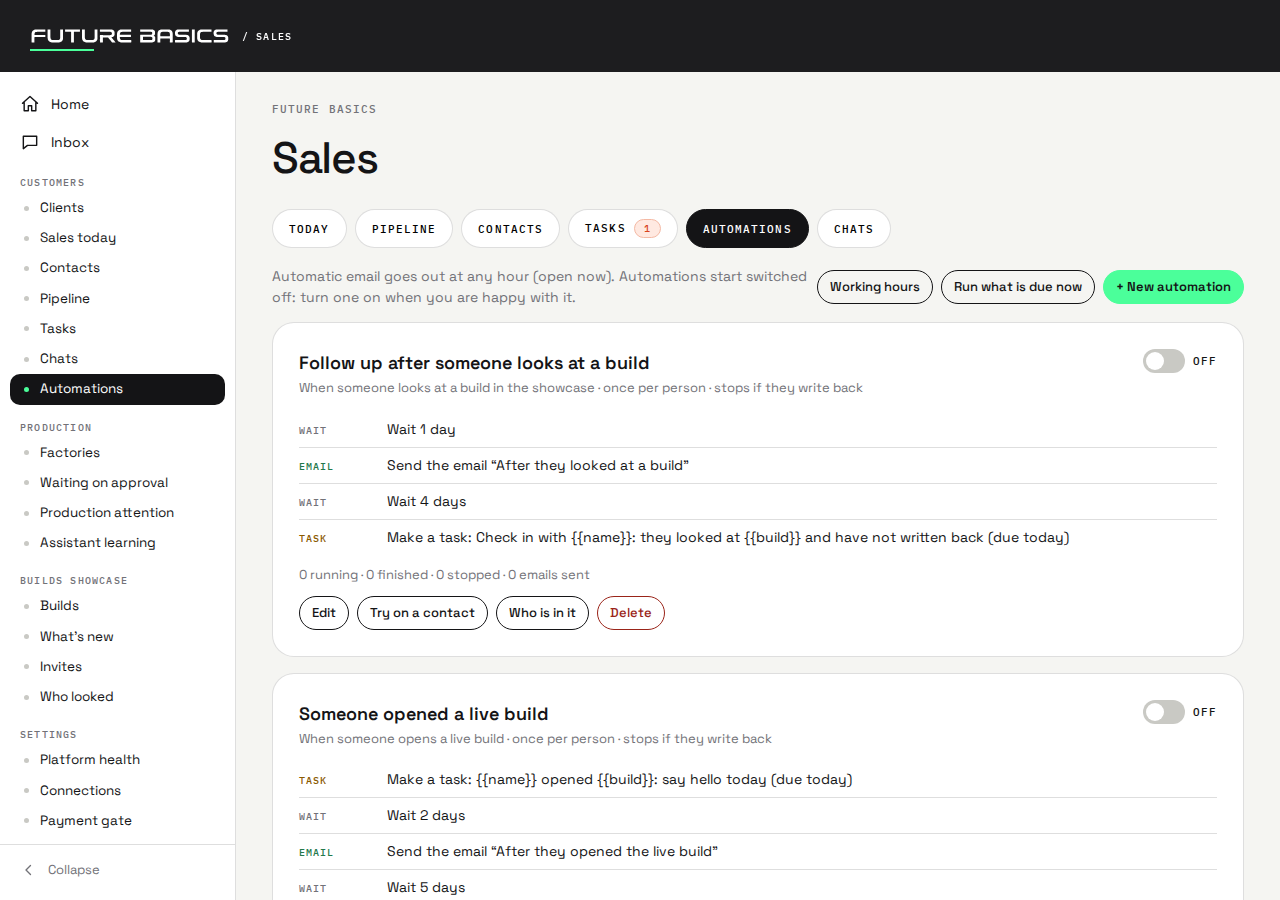
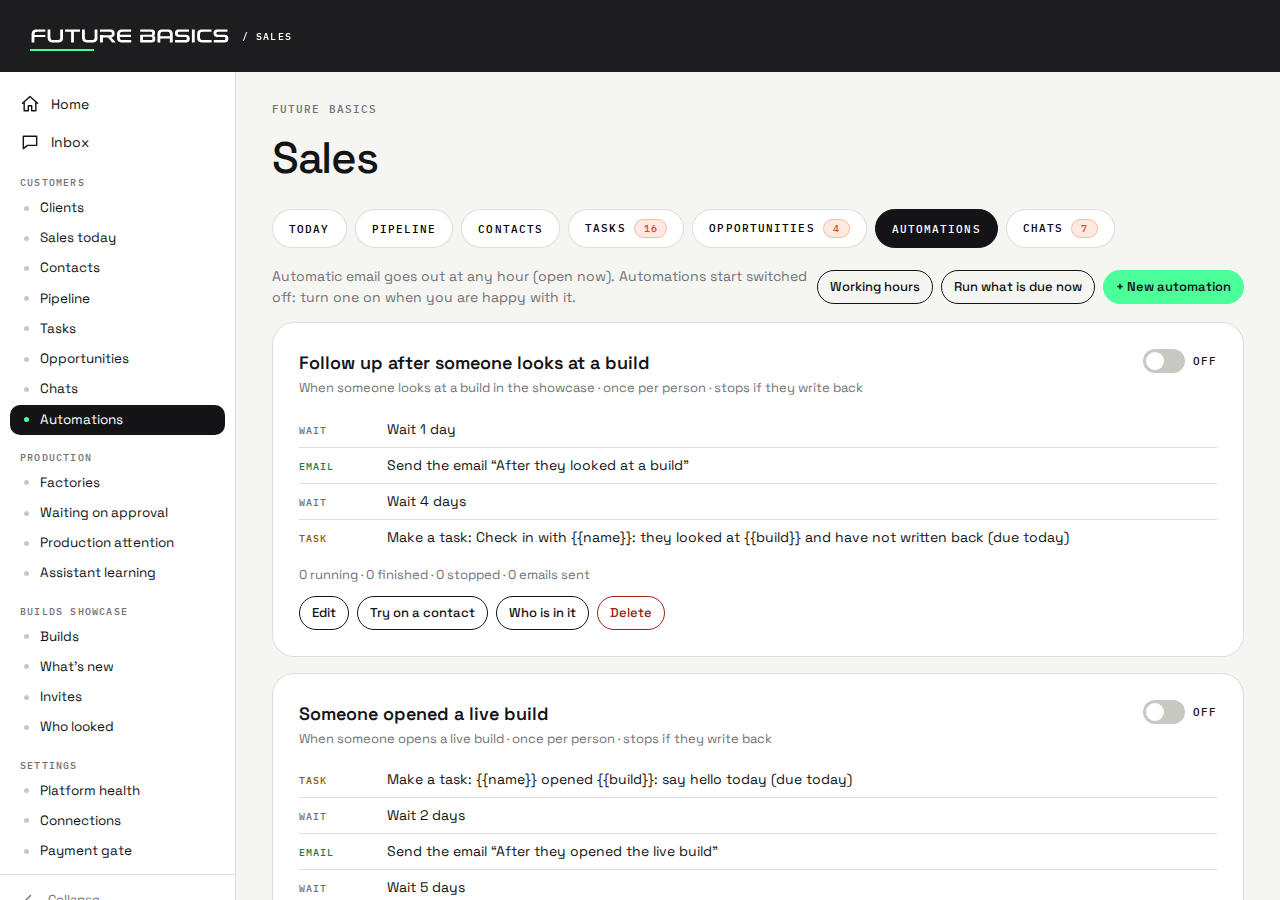
Opportunity finder: who to talk to next, and why
A ranked list from what the CRM already knows (chats waiting, unanswered mail, live builds opened, quiet deals, warm people with no deal, customers who could use more, new untouched contacts, people who went quiet), one line per person under their strongest reason, with make-a-task / snooze / not-now. Today shows the top three; the menu and tab count what is due now. Reads the CRM only; sends nothing.

Claude-Session: https://claude.ai/code/session_017HhaG43tFnDLXHBBMSMfQq

Changed region(s): [[0.0, 0.3733, 0.1875, 1.0], [0.5, 0.2178, 0.7812, 0.28], [0.8125, 0.2489, 0.8438, 0.28]]

diff --git a/src/sales.html b/src/sales.html
@@ -81,7 +81,11 @@ td.pick,th.pick{width:28px;padding-right:0}td.pick input{width:17px;height:17px}
 .cpane .head{display:flex;justify-content:space-between;gap:10px;flex-wrap:wrap;align-items:flex-start;margin-bottom:10px}.cpane .head h2{margin:0}
 .cpane .fbchat-panel{height:min(62vh,560px);border-radius:18px}
 .cback{display:none}
-@media(max-width:860px){.chats{grid-template-columns:minmax(0,1fr)}.chats.open .clistbox{display:none}.chats:not(.open) .cpane{display:none}.cback{display:inline-flex}.fields,.cols2{grid-template-columns:minmax(0,1fr)}.tiles{grid-template-columns:repeat(2,minmax(0,1fr))}.board{grid-auto-columns:82%}.ev{grid-template-columns:1fr;gap:2px}}
+/* opportunities */
+.opp{display:grid;grid-template-columns:minmax(0,1fr) auto;gap:10px 16px;align-items:start}.opp h2{margin:0 0 2px;font-size:17px}.opp .why{margin:4px 0 0}.opp .arow{margin-top:10px}
+.pri{display:inline-block;border-radius:999px;padding:2px 9px;font:500 10px 'IBM Plex Mono',monospace;letter-spacing:.08em;text-transform:uppercase;border:1px solid var(--line);white-space:nowrap}.pri.now{background:#ffe9e1;border-color:#f4b9a4;color:var(--hot)}.pri.week{background:#fff7d6;border-color:#e6d27a}.pri.later{background:#f0f0ee;color:var(--dim)}
+.opp .also{color:var(--dim);font-size:12.5px;margin-top:6px}
+@media(max-width:860px){.opp{grid-template-columns:minmax(0,1fr)}.chats{grid-template-columns:minmax(0,1fr)}.chats.open .clistbox{display:none}.chats:not(.open) .cpane{display:none}.cback{display:inline-flex}.fields,.cols2{grid-template-columns:minmax(0,1fr)}.tiles{grid-template-columns:repeat(2,minmax(0,1fr))}.board{grid-auto-columns:82%}.ev{grid-template-columns:1fr;gap:2px}}
 @media(prefers-reduced-motion:reduce){*{transition:none!important}}
 </style>
 </head>
@@ -93,7 +97,7 @@ td.pick,th.pick{width:28px;padding-right:0}td.pick input{width:17px;height:17px}
   <div id="needSignin" class="panel hidden"><h1>Sign in to the work console first</h1><p class="note">This page uses your work console sign-in. Open the console, sign in, then come back here.</p><a class="btn go" href="/">Open the work console</a></div>
   <div id="app" class="hidden">
     <span class="mono" style="color:var(--dim)">Future Basics</span><h1>Sales</h1>
-    <div class="tabs" role="tablist"><button class="tab on" data-t="today">Today</button><button class="tab" data-t="pipeline">Pipeline</button><button class="tab" data-t="contacts">Contacts</button><button class="tab" data-t="tasks">Tasks <span id="taskCount"></span></button><button class="tab" data-t="automations">Automations</button><button class="tab" data-t="chats">Chats <span id="chatCount"></span></button></div>
+    <div class="tabs" role="tablist"><button class="tab on" data-t="today">Today</button><button class="tab" data-t="pipeline">Pipeline</button><button class="tab" data-t="contacts">Contacts</button><button class="tab" data-t="tasks">Tasks <span id="taskCount"></span></button><button class="tab" data-t="opportunities">Opportunities <span id="oppCount"></span></button><button class="tab" data-t="automations">Automations</button><button class="tab" data-t="chats">Chats <span id="chatCount"></span></button></div>
 
     <section id="t-today"></section>
 
@@ -119,6 +123,11 @@ td.pick,th.pick{width:28px;padding-right:0}td.pick input{width:17px;height:17px}
       </div>
     </section>
 
+    <section id="t-opportunities" class="hidden">
+      <div class="abar"><p class="note grow" id="oppNote" style="margin:0">Who to talk to next, and why. Each person appears once, under their strongest reason.</p></div>
+      <div class="views" id="oppTypes" aria-label="Kinds of opportunity"></div>
+      <div id="oppList"></div>
+    </section>
     <section id="t-automations" class="hidden">
       <div class="abar"><p class="note grow" id="autoNote" style="margin:0"></p><div class="arow" style="margin:0"><button class="btn sm" id="autoHours">Working hours</button><button class="btn sm" id="autoNow">Run what is due now</button><button class="btn go sm" id="autoNew">+ New automation</button></div></div>
       <div id="autoList"></div>
@@ -256,8 +265,9 @@ let TAB='today',OPEN_CONTACT=null,DEALS=[],CONTACT_OPTS=[];
 
 // ---------- today ----------
 async function loadToday(){
-  const [o,sv]=await Promise.all([api('/v1/sales/overview'),api('/v1/sales/segments').catch(()=>({segments:[]}))]),p=o.pipeline;
+  const [o,sv,op]=await Promise.all([api('/v1/sales/overview'),api('/v1/sales/segments').catch(()=>({segments:[]})),api('/v1/sales/opportunities').catch(()=>({opportunities:[],priorities:{now:0}}))]),p=o.pipeline;
   $('#t-today').innerHTML=`<div class="tiles"><div class="tile"><span>Open pipeline</span><b>${money(p.openValueCents)}</b><span>${p.openCount} deal${p.openCount===1?'':'s'}</span></div><div class="tile"><span>Forecast (by odds)</span><b>${money(p.forecastCents)}</b></div><div class="tile"><span>Won</span><b>${money(p.wonCents)}</b></div><div class="tile"><span>New contacts this week</span><b>${o.newLeads}</b><span>${o.totalContacts} in all</span></div></div>
+  ${op.opportunities.length?`<div class="panel"><div class="ahead"><h2>Worth your time today</h2><button class="btn sm" data-opentab="opportunities">See all ${op.total}</button></div>${op.opportunities.slice(0,3).map(x=>`<div class="item click" ${x.contactId?`data-contact="${esc(x.contactId)}"`:''}><span class="main"><b>${esc(x.name||'Someone')}${x.company?' · '+esc(x.company):''}</b><span class="sub">${esc(x.reason)}</span></span><span class="pri ${x.priority}">${esc({now:'Now',week:'This week',later:'Later'}[x.priority])}</span></div>`).join('')}</div>`:''}
   ${sv.segments.length?`<div class="panel"><h2>Your customers</h2><div class="views" style="margin:0">${sv.segments.map(g=>`<button type="button" class="fchip" data-openseg="${esc(g.id)}">${esc(g.name)}<small>${g.count}</small></button>`).join('')}</div></div>`:''}
   <div class="cols2"><div class="panel"><h2>Do these</h2>${o.tasks.length?o.tasks.map(t=>`<div class="item"><label class="check"><input type="checkbox" data-done="${esc(t.id)}" aria-label="Done"><span class="main"><b>${esc(t.title)}</b><span class="sub">${t.contact_id?`<a href="#" data-contact="${esc(t.contact_id)}">${who(t)}</a> · `:''}${new Date(t.due_at)<new Date(new Date().toDateString())?'<span class="chip late">overdue</span> ':''}${dayOf(t.due_at)}</span></span></label></div>`).join(''):'<p class="note">Nothing due. Add a task from a contact.</p>'}</div>
   <div class="panel"><h2>Warm right now</h2>${o.hot.length?o.hot.map(c=>`<div class="item click" data-contact="${esc(c.id)}"><span class="main"><b>${esc(c.name||c.email)}</b><span class="sub">${esc(c.company||c.email||'')} · last ${ago(c.heat.lastAt)}</span></span>${heatChip(c.heat)}</div>`).join(''):'<p class="note">Nobody has looked at anything lately. When someone you invited opens a build, they show up here.</p>'}</div>
@@ -437,6 +447,7 @@ $('#sTest').onclick=async()=>{const m=$('#sMsg');m.className='msg';m.textContent
 
 // ---------- shared behaviour ----------
 document.addEventListener('click',async e=>{
+  const ot=e.target.closest('[data-opentab]');if(ot){$$('.tab').find(t=>t.dataset.t===ot.dataset.opentab).click();return}
   const os=e.target.closest('[data-openseg]');if(os){ACTIVE_SEG=os.dataset.openseg;PICK.clear();$$('.tab').find(t=>t.dataset.t==='contacts').click();return}
   const done=e.target.closest('[data-done]');if(done&&done.type==='checkbox'){try{await api('/v1/sales/tasks/'+done.dataset.done,{method:'PUT',body:{done:true}});await refresh();if(OPEN_CONTACT&&$('#cdlg').open)openContact(OPEN_CONTACT)}catch(x){alert(x.message)}return}
   const close=e.target.closest('[data-close]');if(close){close.closest('dialog').close();return}
@@ -516,6 +527,20 @@ async function loadRuns(id){
   box.innerHTML=runs.length?`<h2 style="margin:18px 0 6px">Automations</h2>${runs.slice(0,6).map(r=>`<div class="item"><span class="main"><b>${esc(r.automation_name)}</b><span class="sub">${r.status==='active'?`Step ${r.step+1} of ${r.steps}, next ${esc(when(r.next_at))}`:r.status==='done'?'Finished':'Stopped: '+esc(r.stop_reason)}</span></span>${r.status==='active'?`<button class="btn sm" data-stoprun="${esc(r.id)}">Stop</button>`:''}</div>`).join('')}`:'';
   box.querySelectorAll('[data-stoprun]').forEach(b=>b.onclick=async()=>{try{await api('/v1/sales/runs/'+b.dataset.stoprun+'/stop',{body:{}});await openContact(id)}catch(x){alert(x.message)}});
 }
+// ---------- opportunities ----------
+let OPPS=null,OPP_TYPE='';
+const oppCard=o=>`<div class="panel opp" data-okey="${esc(o.key)}"><div><h2>${o.contactId?`<a href="#" data-contact="${esc(o.contactId)}">${esc(o.name||o.email||'Someone')}</a>`:esc(o.name||'Someone')}${o.company?` <span class="sub">· ${esc(o.company)}</span>`:''}</h2><div class="sub">${esc(o.typeLabel)}</div><p class="why">${esc(o.reason)}</p>${o.also&&o.also.length?`<div class="also">Also: ${o.also.map(t=>esc((OPPS.types.find(x=>x.type===t)||{}).label||t)).join(', ')}</div>`:''}<div class="arow"><button class="btn go sm" data-oact="task">Make a task: ${esc(o.task)}</button>${o.contactId?`<button class="btn sm" data-contact="${esc(o.contactId)}">Open contact</button>`:''}<button class="btn sm" data-oact="snooze">Snooze a week</button><button class="btn sm" data-oact="dismiss">Not now</button></div></div><span class="pri ${o.priority}">${esc({now:'Now',week:'This week',later:'When there is time'}[o.priority])}</span></div>`;
+async function loadOpportunities(){
+  OPPS=await api('/v1/sales/opportunities'+(OPP_TYPE?'?type='+OPP_TYPE:''));const o=OPPS;
+  $('#oppCount').innerHTML=o.priorities.now?`<span class="chip late">${o.priorities.now}</span>`:'';
+  $('#oppTypes').innerHTML=`<button type="button" class="fchip ${OPP_TYPE?'':'on'}" data-otype="">Everything<small>${o.total}</small></button>`+o.types.filter(t=>o.counts[t.type]||t.type===OPP_TYPE).map(t=>`<button type="button" class="fchip ${t.type===OPP_TYPE?'on':''}" data-otype="${esc(t.type)}">${esc(t.label)}<small>${o.counts[t.type]||0}</small></button>`).join('');
+  $('#oppNote').textContent=o.total?`${o.priorities.now} to do now, ${o.priorities.week} this week, ${o.priorities.later} when there is time. Each person appears once, under their strongest reason.`:'Nothing is falling through the cracks right now.';
+  $('#oppList').innerHTML=o.opportunities.length?o.opportunities.map(oppCard).join(''):'<div class="panel"><p class="note">Nothing here. When someone looks at a build, writes in, or a deal goes quiet, it shows up here with what to do.</p></div>';
+}
+$('#oppTypes').addEventListener('click',e=>{const b=e.target.closest('[data-otype]');if(!b)return;OPP_TYPE=b.dataset.otype;loadOpportunities().catch(x=>alert(x.message))});
+$('#oppList').addEventListener('click',async e=>{const b=e.target.closest('[data-oact]');if(!b)return;const key=b.closest('[data-okey]').dataset.okey;b.disabled=true;
+  try{await api('/v1/sales/opportunities/act',{body:{key,action:b.dataset.oact,days:7}});await loadOpportunities();loadTaskBadge()}catch(x){alert(x.message);b.disabled=false}});
+async function loadOppBadge(){try{const o=await api('/v1/sales/opportunities');$('#oppCount').innerHTML=o.priorities.now?`<span class="chip late">${o.priorities.now}</span>`:''}catch{}}
 // ---------- chats ----------
 let CHATS=[],CHAT_ID=null,CHAT_UI=null,CHAT_STATUS='';
 const CSTATUS={bot:['bot','Assistant'],waiting:['wait','Waiting for you'],person:['person','With a person'],closed:['closed','Closed']};
@@ -548,8 +573,8 @@ $('#chatFilter').onchange=()=>loadChats().catch(x=>alert(x.message));
 $('#chatSettings').onclick=async()=>{const {settings:s,assistantReady}=await api('/v1/sales/chats/settings');$('#cfOn').checked=s.enabled;$('#cfBot').checked=s.assistantOn;$('#cfGreet').value=s.greeting;$('#cfAbout').value=s.about;$('#cfCap').value=s.dailyBotCap;$('#cfEmbed').value=`<script src="${location.protocol}//${location.host.replace(/^work\./,'hub.')}/chat-widget.js" defer><\/script>`;$('#cfBotNote').textContent=assistantReady?'It answers from what Future Basics does and the builds the visitor may see, and hands to a person for price, timelines, anything it is unsure of, or when asked.':'The assistant is not connected yet (the service needs ANTHROPIC_API_KEY). Until then every chat goes straight to a person.';$('#cfMsg').textContent='';$('#cfdlg').showModal()};
 $('#cfSave').onclick=async()=>{const m=$('#cfMsg');m.className='msg';try{await api('/v1/sales/chats/settings',{method:'PUT',body:{enabled:$('#cfOn').checked,assistantOn:$('#cfBot').checked,greeting:$('#cfGreet').value,about:$('#cfAbout').value,dailyBotCap:$('#cfCap').value}});$('#cfdlg').close()}catch(x){m.className='msg bad';m.textContent=x.message}};
 async function loadChatBadge(){try{const {waiting}=await api('/v1/sales/chats?status=waiting');$('#chatCount').innerHTML=waiting?`<span class="chip late">${waiting}</span>`:''}catch{}}
-const LOADERS={today:loadToday,pipeline:loadPipeline,contacts:loadContacts,tasks:loadTasks,automations:loadAutomations,chats:loadChats};
-async function refresh(){await LOADERS[TAB]();if(TAB!=='tasks')loadTaskBadge();if(TAB!=='chats')loadChatBadge()}
+const LOADERS={today:loadToday,pipeline:loadPipeline,contacts:loadContacts,tasks:loadTasks,automations:loadAutomations,chats:loadChats,opportunities:loadOpportunities};
+async function refresh(){await LOADERS[TAB]();if(TAB!=='tasks')loadTaskBadge();if(TAB!=='chats')loadChatBadge();if(TAB!=='opportunities')loadOppBadge()}
 setInterval(()=>{if(TAB==='chats'&&!document.hidden)loadChats().catch(()=>{})},10000);
 const refreshQuiet=()=>refresh().catch(()=>{});
 async function loadTaskBadge(){try{const open=(await api('/v1/sales/tasks?scope=today')).tasks.length;$('#taskCount').innerHTML=open?`<span class="chip late">${open}</span>`:''}catch{}}

diff --git a/src/sales-opportunities-routes.js b/src/sales-opportunities-routes.js
@@ -1,0 +1,81 @@
+// Opportunity finder routes (staff only; see sales-opportunities.js for the rules).
+//   GET /v1/sales/opportunities?type=   who to talk to next and why, strongest first, one line per person
+//   POST /v1/sales/opportunities/act    { key, action: 'task' | 'snooze' | 'dismiss', days? }
+import { OPEN_STAGES, heat } from './sales.js';
+import { OPP_TYPES, describe, rank, oppKey, hiddenUntil, countsByType } from './sales-opportunities.js';
+
+const UUID = /^[0-9a-f]{8}-[0-9a-f]{4}-[0-9a-f]{4}-[0-9a-f]{4}-[0-9a-f]{12}$/i;
+const HEAT_KINDS = ['showcase_demo', 'showcase_view', 'email_in', 'chat_in', 'meeting', 'call'];
+const OUTBOUND = ['email_out', 'chat_out', 'call', 'meeting'];
+const WHO = `c.id contact_id, c.name, c.email, co.name company`;
+const FROM = `from sales_contacts c left join sales_companies co on co.id=c.company_id`;
+const NO_OPEN_TASK = `not exists (select 1 from sales_tasks t where t.contact_id=c.id and t.done_at is null)`;
+const NO_OPEN_DEAL = `not exists (select 1 from sales_deals d where d.contact_id=c.id and d.stage = any($1))`;
+const days = at => Math.max(0, Math.floor((Date.now() - new Date(at).getTime()) / 86400_000));
+
+// Every reason to reach out that the CRM can see right now, before staff's "not now"s are applied.
+export async function findOpportunities(pool, now = Date.now()) {
+  const out = [], add = (type, id, row, f) => { const d = describe(type, { name: row.name, email: row.email, company: row.company, ...f }); out.push({ key: oppKey(type, id), type, contactId: row.contact_id || null, dealId: f.dealId || null, name: row.name || row.email || '', company: row.company || '', email: row.email || '', score: d.score, reason: d.reason, task: d.task }); };
+  const q = (sql, args = []) => pool.query(sql, args).then(r => r.rows).catch(() => []);
+
+  for (const r of await q(`select ${WHO}, v.last_message_at since, extract(day from now()-v.last_message_at)::int days ${FROM} join chat_conversations v on v.contact_id=c.id where v.status='waiting'`)) add('chat_waiting', r.contact_id, r, { since: r.since, days: r.days });
+  for (const r of await q(`select distinct on (c.id) ${WHO}, a.text, extract(day from now()-a.created_at)::int days ${FROM} join sales_activities a on a.contact_id=c.id
+      where a.kind='email_in' and a.created_at > now()-interval '14 days' and a.text not like '(automatic reply)%' and c.unsubscribed_at is null
+        and not exists (select 1 from sales_activities b where b.contact_id=a.contact_id and b.created_at > a.created_at and b.kind = any($1)) order by c.id, a.created_at desc`, [OUTBOUND])) add('inbound_unanswered', r.contact_id, r, { text: r.text, days: r.days });
+  for (const r of await q(`select distinct on (c.id) ${WHO}, extract(day from now()-a.created_at)::int days, (select b.name from builds b where b.id::text = a.meta->>'buildId') build ${FROM} join sales_activities a on a.contact_id=c.id
+      where a.kind='showcase_demo' and a.created_at > now()-interval '14 days' and c.unsubscribed_at is null and ${NO_OPEN_TASK}
+        and not exists (select 1 from sales_activities b where b.contact_id=a.contact_id and b.created_at > a.created_at and b.kind = any($1)) order by c.id, a.created_at desc`, [OUTBOUND])) add('opened_live', r.contact_id, r, { days: r.days, build: r.build });
+  for (const r of await q(`select d.id deal_id, d.title, d.stage, d.value_cents, extract(day from now()-d.last_activity_at)::int days, c.id contact_id, c.name, c.email, co.name company
+      from sales_deals d left join sales_contacts c on c.id=d.contact_id left join sales_companies co on co.id=coalesce(c.company_id, d.company_id) where d.stage = any($1) and d.last_activity_at <= now()-interval '7 days' order by d.value_cents desc limit 80`, [OPEN_STAGES])) add('deal_quiet', r.deal_id, r, { dealId: r.deal_id, dealTitle: r.title, stage: r.stage, value: Number(r.value_cents), days: r.days });
+
+  // warm people with no deal, and people who were warm and went quiet: from what they did, with the same warmth the Contacts list uses
+  const ev = await q(`select a.contact_id, a.kind, a.created_at "at" from sales_activities a join sales_contacts c on c.id=a.contact_id
+      where a.kind = any($2) and a.created_at > now()-interval '60 days' and c.unsubscribed_at is null and ${NO_OPEN_DEAL} and ${NO_OPEN_TASK}`, [OPEN_STAGES, HEAT_KINDS]);
+  const by = new Map(); for (const e of ev) (by.get(e.contact_id) || by.set(e.contact_id, []).get(e.contact_id)).push({ kind: e.kind, at: e.at });
+  const warm = [], cold = [];
+  for (const [id, list] of by) {
+    const h = heat(list, now), last = Math.max(...list.map(e => new Date(e.at).getTime()));
+    if (h.level === 'hot' || h.level === 'warm') warm.push({ id, level: h.level, list });
+    else if (now - last >= 14 * 86400_000 && ['warm', 'hot'].includes(heat(list, now - 14 * 86400_000).level)) cold.push({ id, last }); // warm two weeks ago, not now
+  }
+  const ids = [...new Set([...warm.map(w => w.id), ...cold.map(c => c.id)])];
+  const people = new Map((ids.length ? await q(`select ${WHO} ${FROM} where c.id = any($1::uuid[])`, [ids]) : []).map(r => [r.contact_id, r]));
+  const said = { showcase_view: n => `looked at builds ${n} time${n === 1 ? '' : 's'}`, showcase_demo: () => 'opened a live build', email_in: () => 'wrote to us', chat_in: () => 'chatted with us', meeting: () => 'met with us', call: () => 'spoke with us' };
+  for (const w of warm) { const r = people.get(w.id); if (!r) continue; const counts = {}; for (const e of w.list) counts[e.kind] = (counts[e.kind] || 0) + 1; add('hot_no_deal', w.id, r, { level: w.level, signals: Object.entries(counts).map(([k, n]) => said[k](n)).join(', ') }); }
+  for (const c of cold) { const r = people.get(c.id); if (r) add('gone_cold', c.id, r, { days: days(c.last) }); }
+
+  for (const r of await q(`select ${WHO} ${FROM} where 'tech-pack' = any(c.tags) and not (c.tags && '{builds,showcase}'::text[]) and c.unsubscribed_at is null and ${NO_OPEN_DEAL} and ${NO_OPEN_TASK} order by c.created_at desc limit 40`, [OPEN_STAGES])) add('cross_sell_builds', r.contact_id, r, {});
+  for (const r of await q(`select ${WHO} ${FROM} where 'builds' = any(c.tags) and not ('tech-pack' = any(c.tags)) and c.unsubscribed_at is null and ${NO_OPEN_DEAL} and ${NO_OPEN_TASK} order by c.created_at desc limit 40`, [OPEN_STAGES])) add('cross_sell_techpack', r.contact_id, r, {});
+  for (const r of await q(`with won as (select c.company_id, sum(d.value_cents) value from sales_deals d join sales_contacts c on c.id=d.contact_id where d.stage='won' and c.company_id is not null group by c.company_id)
+      select w.company_id, co.name company, w.value, o.id contact_id, o.name, o.email,
+        (select count(*) from sales_contacts x where x.company_id=w.company_id and not exists (select 1 from sales_deals dd where dd.contact_id=x.id)) others
+      from won w join sales_companies co on co.id=w.company_id
+      join lateral (select x.id,x.name,x.email from sales_contacts x where x.company_id=w.company_id and x.unsubscribed_at is null and not exists (select 1 from sales_deals dd where dd.contact_id=x.id) and not exists (select 1 from sales_tasks t where t.contact_id=x.id and t.done_at is null) order by x.created_at limit 1) o on true limit 40`)) add('account_expansion', r.company_id, r, { company: r.company, value: Number(r.value), others: Number(r.others) });
+  for (const r of await q(`select ${WHO}, c.source, extract(day from now()-c.created_at)::int days ${FROM} where c.created_at > now()-interval '7 days' and c.source not in ('hub','import') and c.unsubscribed_at is null
+      and not exists (select 1 from sales_deals d where d.contact_id=c.id) and not exists (select 1 from sales_tasks t where t.contact_id=c.id) and not exists (select 1 from sales_activities a where a.contact_id=c.id and a.kind <> 'system') limit 40`)) add('new_unworked', r.contact_id, r, { days: r.days, source: r.source });
+  return out;
+}
+
+export function registerSalesOpportunityRoutes(app, d) {
+  const { pool, authenticate, adminOnly } = d, pre = [authenticate, adminOnly];
+  const bad = (reply, error, code = 422) => reply.code(code).send({ error });
+  const hiddenMap = async () => new Map((await pool.query(`select key, until from sales_opportunity_state where until > now()`)).rows.map(r => [r.key, r]));
+
+  app.get('/v1/sales/opportunities', { preHandler: pre }, async (req) => {
+    const all = rank(await findOpportunities(pool), { hidden: await hiddenMap(), limit: 200 }), type = String(req.query?.type || '');
+    const shown = OPP_TYPES[type] ? all.filter(o => o.type === type) : all;
+    return { opportunities: shown.slice(0, 60), total: all.length, counts: countsByType(all), priorities: { now: all.filter(o => o.priority === 'now').length, week: all.filter(o => o.priority === 'week').length, later: all.filter(o => o.priority === 'later').length }, types: Object.entries(OPP_TYPES).map(([k, v]) => ({ type: k, label: v.label })) };
+  });
+  app.post('/v1/sales/opportunities/act', { preHandler: pre }, async (req, reply) => {
+    const { key, action } = req.body || {}, a = ['task', 'snooze', 'dismiss'].includes(action) ? action : null;
+    if (!a || !key || String(key).length > 80) return bad(reply, 'Choose make a task, snooze or hide');
+    const opp = (await findOpportunities(pool)).find(o => o.key === key); if (!opp) return bad(reply, 'That opportunity is no longer there. It may already be done.', 404);
+    if (a === 'task') {
+      if (!opp.contactId) return bad(reply, 'There is no contact to make a task for');
+      await pool.query(`insert into sales_tasks(contact_id,deal_id,title,due_at) values($1,$2,$3,now())`, [opp.contactId, opp.dealId, opp.task || `Follow up with ${opp.name}`]);
+    }
+    const state = a === 'task' ? 'done' : a === 'snooze' ? 'snoozed' : 'dismissed', until = hiddenUntil(state, Date.now(), req.body?.days);
+    await pool.query(`insert into sales_opportunity_state(key,state,until,actor_id) values($1,$2,$3,$4) on conflict (key) do update set state=excluded.state, until=excluded.until, actor_id=excluded.actor_id, at=now()`, [key, state, until, UUID.test(String(req.auth?.sub || '')) ? req.auth.sub : null]);
+    return { ok: true, until };
+  });
+}

diff --git a/src/sales-opportunities.js b/src/sales-opportunities.js
@@ -1,0 +1,73 @@
+// The opportunity finder: who to talk to next, and why. The rules need no database (see sales-opportunities-routes.js for the questions put to the CRM).
+// An opportunity is one reason to reach out to one person (or a company), with a plain-words reason, a score, and a task worth making. Staff can make the task,
+// snooze it, or hide it; a person appears once, under their strongest reason.
+const clip = (v, n) => String(v ?? '').replace(/\s+/g, ' ').trim().slice(0, n);
+const money = c => '$' + Math.round(Number(c || 0) / 100).toLocaleString('en-US');
+const ago = days => days <= 0 ? 'today' : days === 1 ? 'yesterday' : `${days} days ago`;
+
+export const OPP_TYPES = {
+  chat_waiting: { label: 'Chat waiting', base: 95 },
+  inbound_unanswered: { label: 'Wrote to us, no reply', base: 90 },
+  opened_live: { label: 'Opened a live build', base: 85 },
+  hot_no_deal: { label: 'Interested, no deal', base: 70 },
+  deal_quiet: { label: 'Deal gone quiet', base: 60 },
+  new_unworked: { label: 'New, untouched', base: 50 },
+  account_expansion: { label: 'More at a customer', base: 45 },
+  cross_sell_builds: { label: 'Tech pack customer, no builds', base: 40 },
+  cross_sell_techpack: { label: 'Build customer, no tech pack', base: 40 },
+  gone_cold: { label: 'Was warm, now quiet', base: 35 }
+};
+export const priority = score => (score >= 80 ? 'now' : score >= 60 ? 'week' : 'later');
+export const PRIORITY_LABEL = { now: 'Now', week: 'This week', later: 'When there is time' };
+export const oppKey = (type, id) => `${type}:${id}`;
+
+// "dismissed", "snoozed" and "done" all hide an opportunity until a date; after it, if the reason is still true, it comes back.
+export const HIDE_DAYS = { dismissed: 30, done: 14 };
+export function hiddenUntil(state, now = Date.now(), days) {
+  const d = state === 'snoozed' ? Math.max(1, Math.min(90, Math.round(Number(days) || 7))) : HIDE_DAYS[state];
+  return d ? new Date(now + d * 86400_000) : null;
+}
+export const isHidden = (row, now = Date.now()) => Boolean(row && row.until && new Date(row.until).getTime() > now);
+
+// facts → { score, reason, task }
+export function describe(type, f = {}) {
+  const who = clip(f.name, 80) || clip(f.email, 80) || 'This contact', co = clip(f.company, 80) ? ` at ${clip(f.company, 80)}` : '', build = clip(f.build, 80);
+  const base = OPP_TYPES[type]?.base || 30; let score = base, reason = '', task = '';
+  switch (type) {
+    case 'chat_waiting':
+      reason = `${who} is waiting in chat for a person${f.since ? ` (since ${ago(f.days || 0)})` : ''}.`; task = `Reply to ${who} in chat`; score += Math.min(4, f.days || 0); break;
+    case 'inbound_unanswered':
+      reason = `${who}${co} wrote to us ${ago(f.days || 0)}: “${clip(f.text, 90)}”. Nobody has answered.`; task = `Answer ${who}: “${clip(f.text, 60)}”`; score += Math.min(8, f.days || 0); break;
+    case 'opened_live':
+      reason = `${who}${co} opened ${build ? `the live build “${build}”` : 'a live build'} ${ago(f.days || 0)} and nobody has followed up.`; task = `Follow up with ${who}: they opened ${build || 'a live build'}`; score -= Math.min(10, Math.floor((f.days || 0) / 2)); break;
+    case 'hot_no_deal':
+      reason = `${who}${co} is ${f.level === 'hot' ? 'hot' : 'warm'} (${clip(f.signals, 100) || 'recent activity'}) and has no deal.`; task = `Start a deal with ${who}`; if (f.level !== 'hot') score -= 15; break;
+    case 'deal_quiet':
+      reason = `“${clip(f.dealTitle, 80)}”${f.value ? ` (${money(f.value)})` : ''} has had nothing for ${f.days} days at ${f.stage}.`; task = `Nudge ${who} about “${clip(f.dealTitle, 60)}”`; score += Math.min(10, Math.max(0, (f.days || 0) - 7)) + Math.min(20, Math.floor(Number(f.value || 0) / 100 / 1000) * 2); break;
+    case 'new_unworked':
+      reason = `${who}${co} arrived ${ago(f.days || 0)} (${clip(f.source, 30) || 'unknown source'}) and nobody has done anything yet.`; task = `Say hello to ${who}`; break;
+    case 'account_expansion':
+      reason = `${clip(f.company, 80)} is a customer${f.value ? ` (${money(f.value)} won)` : ''}. ${f.others} other ${f.others === 1 ? 'person' : 'people'} there ${f.others === 1 ? 'has' : 'have'} no deal, including ${who}.`; task = `Ask ${who} (${clip(f.company, 60)}) what they need`; score += Math.min(15, Math.floor(Number(f.value || 0) / 100 / 1000) * 2); break;
+    case 'cross_sell_builds':
+      reason = `${who}${co} makes tech packs with us but has not seen the builds.`; task = `Invite ${who} to the builds showcase`; break;
+    case 'cross_sell_techpack':
+      reason = `${who}${co} bought a build but has not tried a tech pack.`; task = `Tell ${who} about tech packs`; break;
+    case 'gone_cold':
+      reason = `${who}${co} was warm, but there has been nothing for ${f.days} days.`; task = `Check in with ${who}`; break;
+    default: reason = clip(f.reason, 200); task = clip(f.task, 200);
+  }
+  return { score: Math.max(1, Math.min(100, Math.round(score))), reason, task: clip(task, 200) };
+}
+
+// → one opportunity per person (their strongest), highest first. `hidden` is a Map of key → { until } from what staff have already decided.
+export function rank(list, { hidden = new Map(), now = Date.now(), limit = 60 } = {}) {
+  const groups = new Map();
+  for (const o of list) {
+    if (isHidden(hidden.get(o.key), now)) continue; // a reason staff set aside is skipped, so the next reason for that person can show
+    const k = o.contactId || o.key; (groups.get(k) || groups.set(k, []).get(k)).push(o);
+  }
+  return [...groups.values()].map(g => { g.sort((a, b) => b.score - a.score); return { ...g[0], also: g.slice(1).map(x => x.type) }; })
+    .sort((a, b) => b.score - a.score || String(a.name).localeCompare(String(b.name))).slice(0, limit)
+    .map(o => ({ ...o, priority: priority(o.score), typeLabel: OPP_TYPES[o.type]?.label || o.type }));
+}
+export const countsByType = list => Object.fromEntries(Object.keys(OPP_TYPES).map(t => [t, list.filter(o => o.type === t).length]).filter(([, n]) => n));

diff --git a/test/sales-opportunities.test.js b/test/sales-opportunities.test.js
@@ -1,0 +1,47 @@
+import test from 'node:test';
+import assert from 'node:assert/strict';
+import { OPP_TYPES, describe, rank, priority, oppKey, hiddenUntil, isHidden, countsByType } from '../src/sales-opportunities.js';
+
+const mk = (type, id, f = {}, extra = {}) => { const d = describe(type, { name: 'Dana Reyes', company: 'Salon Co', ...f }); return { key: oppKey(type, id), type, contactId: extra.contactId === undefined ? id : extra.contactId, name: 'Dana Reyes', ...d }; };
+
+test('every kind of opportunity says why in plain words and what to do', () => {
+  const cases = { chat_waiting: {}, inbound_unanswered: { text: 'Can you build a site for us?', days: 2 }, opened_live: { build: 'Spot', days: 1 }, hot_no_deal: { level: 'hot', signals: 'looked at builds 3 times' }, deal_quiet: { dealTitle: 'New site', stage: 'proposal', days: 12, value: 1200000 }, new_unworked: { days: 1, source: 'website' }, account_expansion: { company: 'Salon Co', others: 2, value: 500000 }, cross_sell_builds: {}, cross_sell_techpack: {}, gone_cold: { days: 30 } };
+  for (const [type, f] of Object.entries(cases)) { const d = describe(type, { name: 'Dana Reyes', company: 'Salon Co', ...f }); assert.ok(d.reason.length > 15, type); assert.ok(d.task.length > 5, type); assert.ok(d.score >= 1 && d.score <= 100, type); assert.ok(OPP_TYPES[type], type); }
+  assert.match(describe('inbound_unanswered', { name: 'Dana', text: 'Can you build a site for us?', days: 2 }).reason, /wrote to us 2 days ago.*Nobody has answered/);
+  assert.match(describe('deal_quiet', { name: 'Dana', dealTitle: 'New site', stage: 'proposal', days: 12, value: 1200000 }).reason, /\$12,000.*12 days/);
+});
+
+test('scores put what is waiting on a person above what could be done', () => {
+  const s = t => describe(t, { name: 'x', days: 1, level: 'hot', dealTitle: 'd', stage: 'new', others: 1 }).score;
+  assert.ok(s('chat_waiting') > s('inbound_unanswered') && s('inbound_unanswered') > s('opened_live') && s('opened_live') > s('hot_no_deal') && s('hot_no_deal') > s('new_unworked') && s('new_unworked') > s('cross_sell_builds'));
+  assert.ok(describe('hot_no_deal', { name: 'x', level: 'hot' }).score > describe('hot_no_deal', { name: 'x', level: 'warm' }).score);
+  assert.ok(describe('deal_quiet', { name: 'x', days: 7, value: 5000000, dealTitle: 'a' }).score > describe('deal_quiet', { name: 'x', days: 7, value: 0, dealTitle: 'a' }).score, 'a bigger deal matters more');
+  assert.ok(describe('deal_quiet', { name: 'x', days: 30, value: 0, dealTitle: 'a' }).score > describe('deal_quiet', { name: 'x', days: 7, value: 0, dealTitle: 'a' }).score, 'and so does a longer silence');
+  assert.ok(describe('deal_quiet', { name: 'x', days: 60, value: 99999999999, dealTitle: 'a' }).score <= 100);
+});
+
+test('priority bands', () => { assert.equal(priority(95), 'now'); assert.equal(priority(80), 'now'); assert.equal(priority(79), 'week'); assert.equal(priority(60), 'week'); assert.equal(priority(59), 'later'); });
+
+test('a person is listed once, under their strongest reason, with the others noted', () => {
+  const a = mk('hot_no_deal', 'c1', { level: 'hot' }), b = mk('inbound_unanswered', 'c1', { text: 'hello', days: 1 }), c = mk('cross_sell_builds', 'c2');
+  const r = rank([a, b, c]);
+  assert.equal(r.length, 2); assert.equal(r[0].type, 'inbound_unanswered'); assert.deepEqual(r[0].also, ['hot_no_deal']); assert.equal(r[0].priority, 'now'); assert.equal(r[0].typeLabel, OPP_TYPES.inbound_unanswered.label); assert.equal(r[1].contactId, 'c2');
+});
+
+test('what staff set aside stays away until the date, and the next reason for that person shows', () => {
+  const now = Date.parse('2026-10-12T12:00:00Z'), a = mk('inbound_unanswered', 'c1', { text: 'hi', days: 1 }), b = mk('hot_no_deal', 'c1', { level: 'hot' });
+  const hidden = new Map([[a.key, { until: new Date(now + 3 * 86400_000) }]]);
+  const r = rank([a, b], { hidden, now }); assert.equal(r.length, 1); assert.equal(r[0].type, 'hot_no_deal', 'the next reason takes its place');
+  const later = rank([a, b], { hidden, now: now + 4 * 86400_000 }); assert.equal(later[0].type, 'inbound_unanswered', 'after the date it is back if still true');
+  assert.equal(isHidden({ until: new Date(now + 1000) }, now), true); assert.equal(isHidden({ until: new Date(now - 1000) }, now), false); assert.equal(isHidden(undefined, now), false);
+});
+
+test('how long each choice hides it', () => {
+  const now = Date.parse('2026-10-12T12:00:00Z'), days = d => Math.round((hiddenUntil(d.state, now, d.days) - now) / 86400_000);
+  assert.equal(days({ state: 'dismissed' }), 30); assert.equal(days({ state: 'done' }), 14); assert.equal(days({ state: 'snoozed', days: 3 }), 3); assert.equal(days({ state: 'snoozed' }), 7); assert.equal(days({ state: 'snoozed', days: 5000 }), 90); assert.equal(hiddenUntil('nonsense', now), null);
+});
+
+test('the list is capped and counted', () => {
+  const many = Array.from({ length: 100 }, (_, i) => mk('cross_sell_builds', `c${i}`)); assert.equal(rank(many, { limit: 20 }).length, 20);
+  assert.deepEqual(countsByType([{ type: 'gone_cold' }, { type: 'gone_cold' }, { type: 'deal_quiet' }]), { deal_quiet: 1, gone_cold: 2 });
+});

diff --git a/src/server.js b/src/server.js
@@ -32,6 +32,7 @@ import { registerSalesEmailRoutes, seedTemplates } from './sales-email-routes.js
 import { registerSalesAutomationRoutes, seedAutomations } from './sales-automations-routes.js';
 import { processRuns } from './sales-automations-engine.js';
 import { registerChatRoutes } from './chat-routes.js';
+import { registerSalesOpportunityRoutes } from './sales-opportunities-routes.js';
 import { registerBuildRoutes, seedBuilds, backfillBuildRepos, syncBuilds } from './builds-routes.js';
 import { shopifyConfigured, shopifyGraphql, SHOP_CONNECTION_QUERY, APP_SCOPES_QUERY, missingScopes, CUSTOMER_MEMBERSHIP_QUERY, CUSTOMER_BY_EMAIL_QUERY, exactCustomerMatch, ORDER_CUSTOMER_QUERY, DRAFT_ORDER_DELETE, VARIANTS_BULK_CREATE, VARIANTS_BULK_UPDATE, VARIANTS_BULK_DELETE, PRODUCT_SYNC_QUERY, PRODUCT_IDS_SYNC_QUERY, CUSTOMER_SYNC_QUERY, PRODUCT_CREATE, PRODUCT_UPDATE, DRAFT_ORDER_CREATE, DRAFT_INVOICE_SEND, DRAFT_ORDER_STATUS, requireNoUserErrors, OFFER_CONTEXT_QUERY, ORDER_TRANSACTIONS_QUERY, ORDER_CAPTURE, ORDER_CANCEL, requireNoOrderCancelErrors , ORDERS_PAID_QUERY } from './shopify.js';
 import { latestProductQuote, productCommercials, projectFinancialRollups, clientProductTerms, draftOrderLinesForProducts } from './commercials.js';
@@ -618,6 +619,7 @@ registerSalesAutomationRoutes(app, { pool, authenticate, adminOnly, setSetting, 
 app.get('/builds/admin', (_req, reply) => reply.header('cache-control', 'no-store, max-age=0').type('text/html').send(readFileSync(new URL('./builds-admin.html', import.meta.url), 'utf8')));
 const buildsApi = registerBuildRoutes(app, { pool, authenticate, adminOnly, secret, SignJWT, jwtVerify, hash, throttle, CODE_ASK, CODE_GUESS, tooManyCodes, tooManyGuesses, cleanCode, randomInt, sendHubEmail, hubEmailShell, hubButton, emailEscape, clientForEmail, log: app.log, fetchImpl: (url, opts) => trackedFetch('github', url, opts) });
 registerChatRoutes(app, { pool, authenticate, adminOnly, throttle, hash, getSetting, setSetting, sendHubEmail, hubEmailShell, emailEscape, notifyTo: intakeNotificationEmail, workUrl: workHubUrl, builds: buildsApi, aiEnabled, log: app.log });
+registerSalesOpportunityRoutes(app, { pool, authenticate, adminOnly });
 app.get('/admin', sendAdmin);
 app.get('/clients/:id', sendAdmin);
 app.get('/platform', sendAdmin);

diff --git a/src/db.js b/src/db.js
@@ -1102,6 +1102,14 @@ export async function migrate() {
       created_at timestamptz not null default now()
     );
     create index if not exists chat_messages_conv_idx on chat_messages(conversation_id, created_at);
+    -- The opportunity finder (see src/sales-opportunities.js): what staff have made a task of, snoozed or hidden, and until when
+    create table if not exists sales_opportunity_state (
+      key text primary key,
+      state text not null check (state in ('done','snoozed','dismissed')),
+      until timestamptz not null,
+      actor_id uuid references users(id) on delete set null,
+      at timestamptz not null default now()
+    );
     create table if not exists build_invites (
       id uuid primary key default gen_random_uuid(),
       email text not null,

diff --git a/src/console-nav.js b/src/console-nav.js
@@ -22,6 +22,7 @@
       { label: 'Contacts', href: '/sales#contacts' },
       { label: 'Pipeline', href: '/sales#pipeline' },
       { label: 'Tasks', href: '/sales#tasks', badge: '#taskCount' },
+      { label: 'Opportunities', href: '/sales#opportunities', badge: '#oppCount' },
       { label: 'Chats', href: '/sales#chats', badge: '#chatCount' },
       { label: 'Automations', href: '/sales#automations' }] },
     { id: 'production', label: 'Production', icon: 'box', items: [

diff --git a/docs/sales-os.md b/docs/sales-os.md
@@ -84,8 +84,25 @@ A chat button on the **builds showcase** (and on thefuturebasics.com once the sc
 
 **Limits:** a message is dropped if a hidden field is filled in (robots); each address may send 60 messages an hour and open 8 new chats an hour (and 3,000 messages / 300 new chats an hour in all); a chat takes 120 messages a day; the assistant answers at most 300 times a day (set in Chat settings). Chat can be switched off entirely.
 
+## Opportunity finder (phase 5)
+Sales → **Opportunities** (menu: Customers → Opportunities; Today shows the top three as "Worth your time today"). It answers "who should I talk to next, and why", from what the CRM already knows. Each person appears **once**, under their strongest reason, with the others noted; the count on the tab and menu is how many are "Now".
+
+| Reason | What it means | Base priority |
+| --- | --- | --- |
+| Chat waiting | someone is waiting in chat for a person | now |
+| Wrote to us, no reply | a real email in the last 14 days, nothing sent, called or met since | now |
+| Opened a live build | clicked through to a live build in the last 14 days, no follow-up since, no open task | now |
+| Interested, no deal | hot or warm (the same warmth as the Contacts list), no open deal, no open task | this week (hot) / later (warm) |
+| Deal gone quiet | an open deal with nothing for 7+ days; bigger deals and longer silences score higher | this week |
+| New, untouched | arrived in the last 7 days (not an import or hub sync), nobody has done anything | later |
+| More at a customer | a company with a won deal where other people have no deal | later |
+| Tech pack customer, no builds / Build customer, no tech pack | tagged `tech-pack` but not `builds`/`showcase`, or the reverse | later |
+| Was warm, now quiet | warm two weeks ago, cold now, no open deal or task | later |
+
+Each card says why in plain words and offers **Make a task** (with a suggested title, due today), **Open contact**, **Snooze a week**, **Not now** (hidden 30 days). Making a task hides it for 14 days. A reason staff set aside is skipped, so the next reason for that person can show; after the date it comes back if it is still true. People who opted out are never suggested, and people who already have an open task or deal are not nagged about "no deal" or "no follow-up". It only reads the CRM; it never sends anything.
+
 ## Next phases
 
 1. ~~Email~~ and ~~Automations~~ (done, above). Possible next steps for automations: a "move the deal" step, notifying staff in chat/email, and branching on a reply or a click.
 2. ~~Chat with a handoff to a person~~ (done, above). Possible next steps: attachments, notifying staff in the Message Center, a chat that continues over email, chat on the hub for clients.
-3. **Opportunity finder and press comms.**
+3. ~~Opportunity finder~~ (done, above; finding *new* prospects outside the CRM is not built). **Press comms**: releases and pitches, a media list, coverage tracking.
